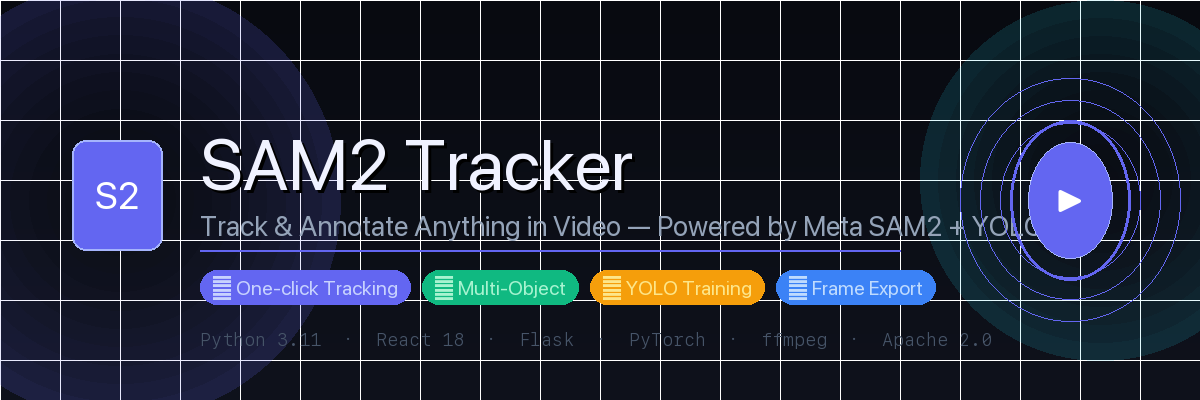
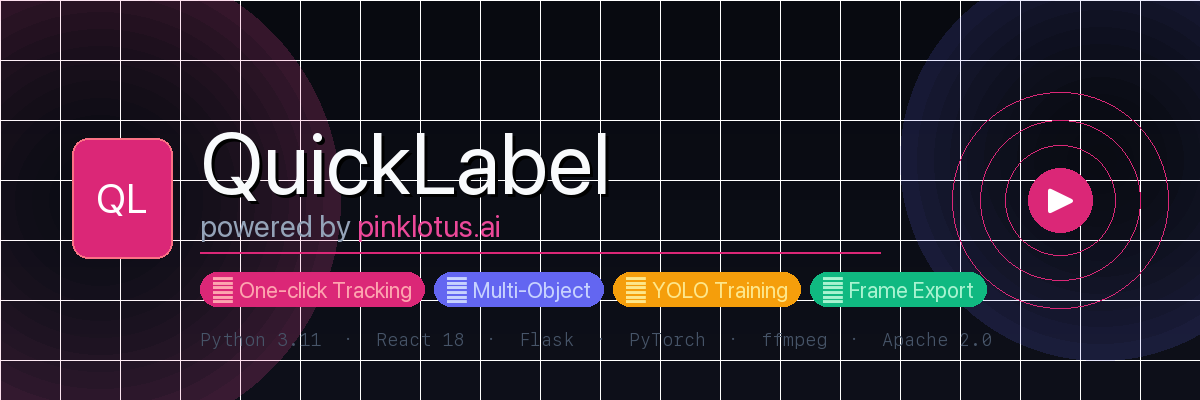
rebrand: QuickLabel powered by pinklotus.ai — mac branch

diff --git a/README.md b/README.md
@@ -1,11 +1,11 @@
 <div align="center">
 
-<img src="./assets/banner.png" width="100%" alt="SAM2 Tracker"/>
+<img src="./assets/banner.png" width="100%" alt="QuickLabel — powered by pinklotus.ai"/>
 
 <br/>
 
 <a href="https://github.com/facebookresearch/sam2">
-  <img src="https://img.shields.io/badge/%F0%9F%A4%96-Built_on_SAM2_Meta_AI-0064e0?style=flat-square" />
+  <img src="https://img.shields.io/badge/%F0%9F%A4%96-Powered_by_SAM2-0064e0?style=flat-square" />
 </a>
 <a href="https://github.com/ultralytics/ultralytics">
   <img src="https://img.shields.io/badge/%F0%9F%8E%AF-YOLOv8_Ultralytics-00b4d8?style=flat-square" />
@@ -25,8 +25,8 @@
 
 <br/>
 
-> ***SAM2 Tracker*** is a full-stack web application for **interactive video object tracking**, mask annotation, and **YOLO model training** — powered by Meta's [Segment Anything Model 2](https://github.com/facebookresearch/sam2).
-> Click on any object in a video → SAM2 tracks it across every frame → export annotations → train a custom YOLOv8 detector. **No code required.**
+> ***QuickLabel*** is a full-stack web application for **interactive video object tracking**, mask annotation, and **YOLO model training** — no code required.
+> Upload a video → click any object → tracks across every frame → export annotations → train a custom detector.
 
 ---
 
@@ -34,7 +34,7 @@
 
 <div align="center">
 
-<img src="./assets/demo.gif" width="80%" alt="SAM2 Tracker Demo"/>
+<img src="./assets/demo.gif" width="80%" alt="QuickLabel Demo"/>
 
 *Two players tracked simultaneously — masks propagated across 72 frames at 10 fps*
 
@@ -52,7 +52,7 @@ main
 └── 🪟  windows  ──→  git checkout windows
 ```
 
-> This branch is configured for **macOS (Apple Silicon & Intel)**. It uses Apple MPS (Metal GPU) automatically — no NVIDIA GPU needed.
+> This branch is configured for **macOS (Apple Silicon & Intel)**. Uses Apple MPS (Metal GPU) automatically — no NVIDIA GPU needed.
 
 ---
 
@@ -62,14 +62,11 @@ main
 
 | Tool | Install |
 |------|---------|
+| Homebrew | `/bin/bash -c "$(curl -fsSL https://raw.githubusercontent.com/Homebrew/install/HEAD/install.sh)"` |
 | Python 3.11 | `brew install python@3.11` |
 | Node.js + Yarn | `brew install node && npm install -g yarn` |
 | ffmpeg | `brew install ffmpeg` |
 | Git | `brew install git` |
-
-> Install Homebrew first if you don't have it: `/bin/bash -c "$(curl -fsSL https://raw.githubusercontent.com/Homebrew/install/HEAD/install.sh)"`
-
----
 
 ### Step 1 — Install dependencies
 
@@ -109,7 +106,7 @@ chmod +x run-demo.sh
 
 ✅ Browser opens automatically → **http://localhost:7262**
 
-> **Apple MPS (Metal GPU):** The app uses Apple Silicon GPU automatically via `PYTORCH_ENABLE_MPS_FALLBACK=1`. Tracking is fast even without NVIDIA GPU.
+> **Apple MPS:** The app uses Apple Silicon GPU automatically via Metal. Tracking is fast even without NVIDIA GPU.
 
 ---
 
@@ -117,13 +114,13 @@ chmod +x run-demo.sh
 
 | Feature | Description |
 |---------|-------------|
-| ⚡ One-click tracking | Click any object — SAM2 segments and tracks it instantly |
+| ⚡ One-click tracking | Click any object — segments and tracks instantly |
 | 👥 Multi-object | Track up to 10 objects with colored overlays |
 | ✂ Timeline crop | Drag handles to set start/end range |
-| 📦 Frame export | `.jpg` + LabelMe `.json` + YOLO `.txt` at any FPS |
-| 🤖 YOLO training | Merge datasets and train YOLOv8 in the browser |
+| 📦 Frame export | `.jpg` + YOLO `.txt` at any FPS |
+| 🤖 YOLO training | Merge datasets and train directly in the browser |
 | 💾 Draft saving | Auto-saved sessions — resume anytime |
-| 🎛 Model selection | SAM2 Tiny / Small / Base+ / Large |
+| 🎛 Model selection | Tiny / Small / Base+ / Large |
 
 ---
 
@@ -132,20 +129,20 @@ chmod +x run-demo.sh
 ### Step 1 — Upload & Track
 
 1. Open **http://localhost:7262**
-2. Upload a video (up to 5 min, 250 MB — `.mp4` / `.mov`)
+2. Upload a video (up to 5 min, 250 MB)
 3. Click **"+ Create New Project"**
 4. Set crop range using timeline handles *(optional)*
-5. Click any object → SAM2 segments instantly
+5. Click any object → segments instantly
 6. Press **"Track"** → propagates across all frames
 
 ### Step 2 — Export Frames
 
 1. Open completed project → **"Extract Frames"**
-2. Select FPS (0.5 – 24) → saved as:
+2. Select FPS (0.5 – 24):
 
 ```
 frame_000001.jpg    ← image
-frame_000001.json   ← LabelMe annotation
+frame_000001.json   ← annotation
 frame_000001.txt    ← YOLO bbox
 classes.txt
 ```
@@ -159,7 +156,7 @@ YOLODataset/
 └── dataset.yaml
 ```
 
-### Step 3 — Train YOLO
+### Step 3 — Train
 
 1. Click **"🎯 Train YOLO Model"**
 2. Select datasets → **"Merge"** → configure → **"🚀 Start Training"**
@@ -171,12 +168,12 @@ YOLODataset/
 
 | Model | Size | Speed | Accuracy |
 |-------|------|-------|----------|
-| `sam2.1_hiera_tiny.pt` | 38 MB | ⚡⚡⚡ | ★★☆ |
-| `sam2.1_hiera_small.pt` | 46 MB | ⚡⚡ | ★★★ |
-| `sam2.1_hiera_base_plus.pt` | 80 MB | ⚡ | ★★★★ |
-| `sam2.1_hiera_large.pt` | 224 MB | 🐢 | ★★★★★ |
+| Tiny | 38 MB | ⚡⚡⚡ | ★★☆ |
+| Small | 46 MB | ⚡⚡ | ★★★ |
+| Base+ | 80 MB | ⚡ | ★★★★ |
+| Large | 224 MB | 🐢 | ★★★★★ |
 
-Set model in `run-demo.sh`: `MODEL_SIZE=tiny|small|base_plus|large`
+Set model: `MODEL_SIZE=tiny|small|base_plus|large` in `run-demo.sh`
 
 ---
 
@@ -188,7 +185,7 @@ Set model in `run-demo.sh`: `MODEL_SIZE=tiny|small|base_plus|large`
 | `ffmpeg: not found` | `brew install ffmpeg` |
 | `node: not found` | `brew install node` |
 | Port 7262/7263 in use | `pkill -f "python.*app.py"` |
-| Slow tracking | Switch to `tiny` model or shorten crop range |
+| Slow tracking | Switch to Tiny model or shorten crop range |
 | Session fails | Close other apps — 8 GB RAM minimum |
 
 ---
@@ -197,11 +194,9 @@ Set model in `run-demo.sh`: `MODEL_SIZE=tiny|small|base_plus|large`
 
 - [Segment Anything Model 2 (SAM2)](https://github.com/facebookresearch/sam2) — Meta AI Research
 - [Ultralytics YOLOv8](https://github.com/ultralytics/ultralytics)
-- [LabelMe](https://github.com/labelmeai/labelme) annotation format
 
 ---
 
 ## :page_facing_up: License
 
 Apache License 2.0 — see [LICENSE](LICENSE) for details.
-SAM2 model weights subject to Meta's [model license](https://github.com/facebookresearch/sam2/blob/main/LICENSE).
